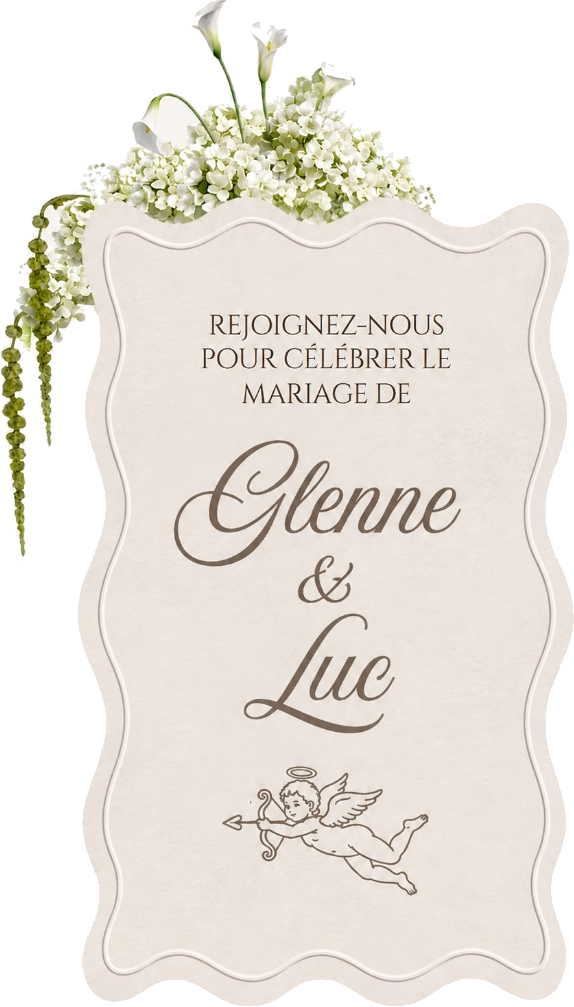
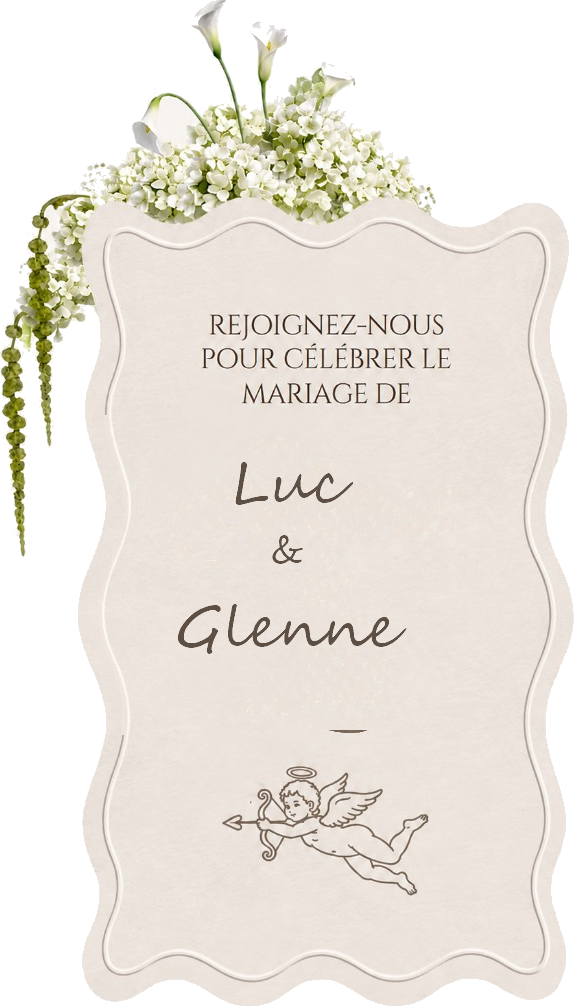
Inverse les noms sur la carte d'invitation : Luc & Glenne.

diff --git a/src/app/App.tsx b/src/app/App.tsx
@@ -322,7 +322,7 @@ function EnvelopeCollage() {
   return (
     <div className="envelope-collage" aria-hidden={false}>
       <img
-        src="/decor/invite-card.png?v=2"
+        src="/decor/invite-card.png?v=4"
         alt="Invitation Luc et Glenne"
         className="collage-invite-card"
         draggable={false}
